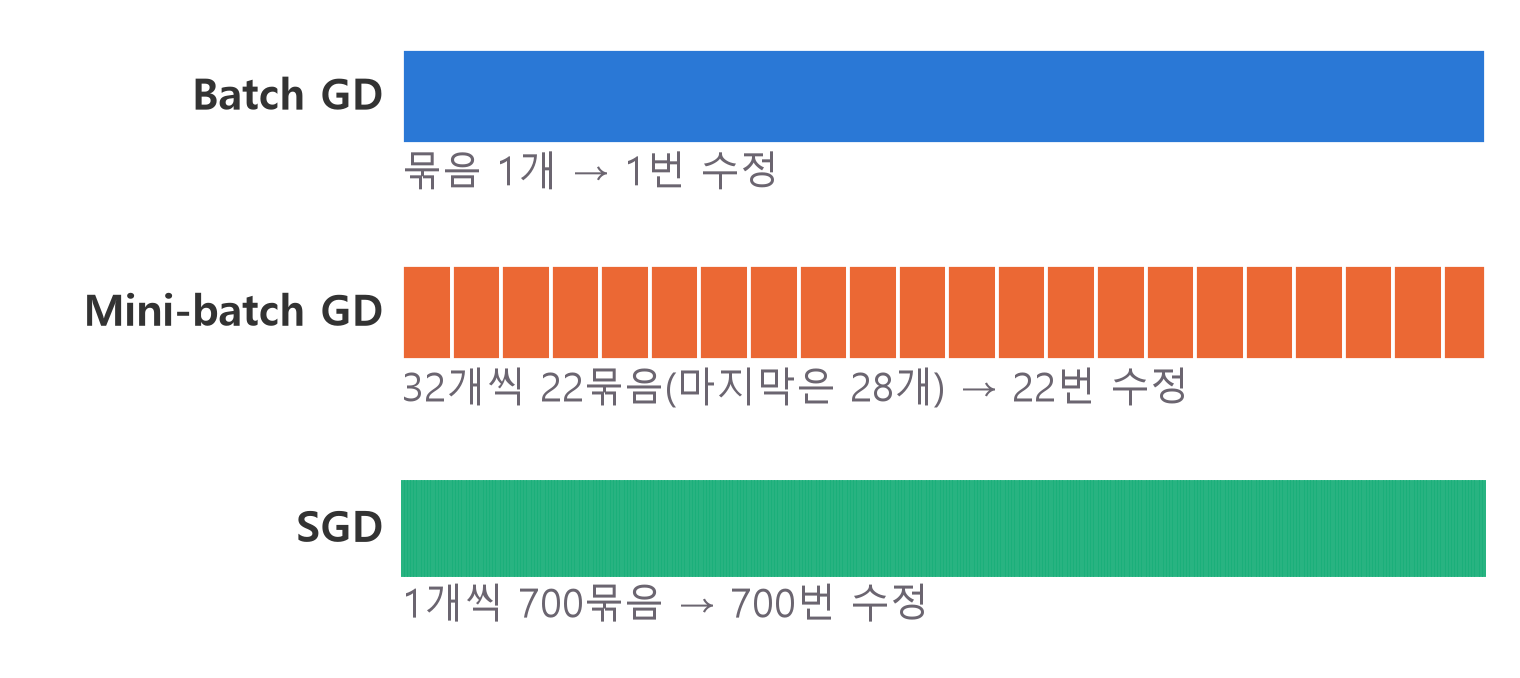
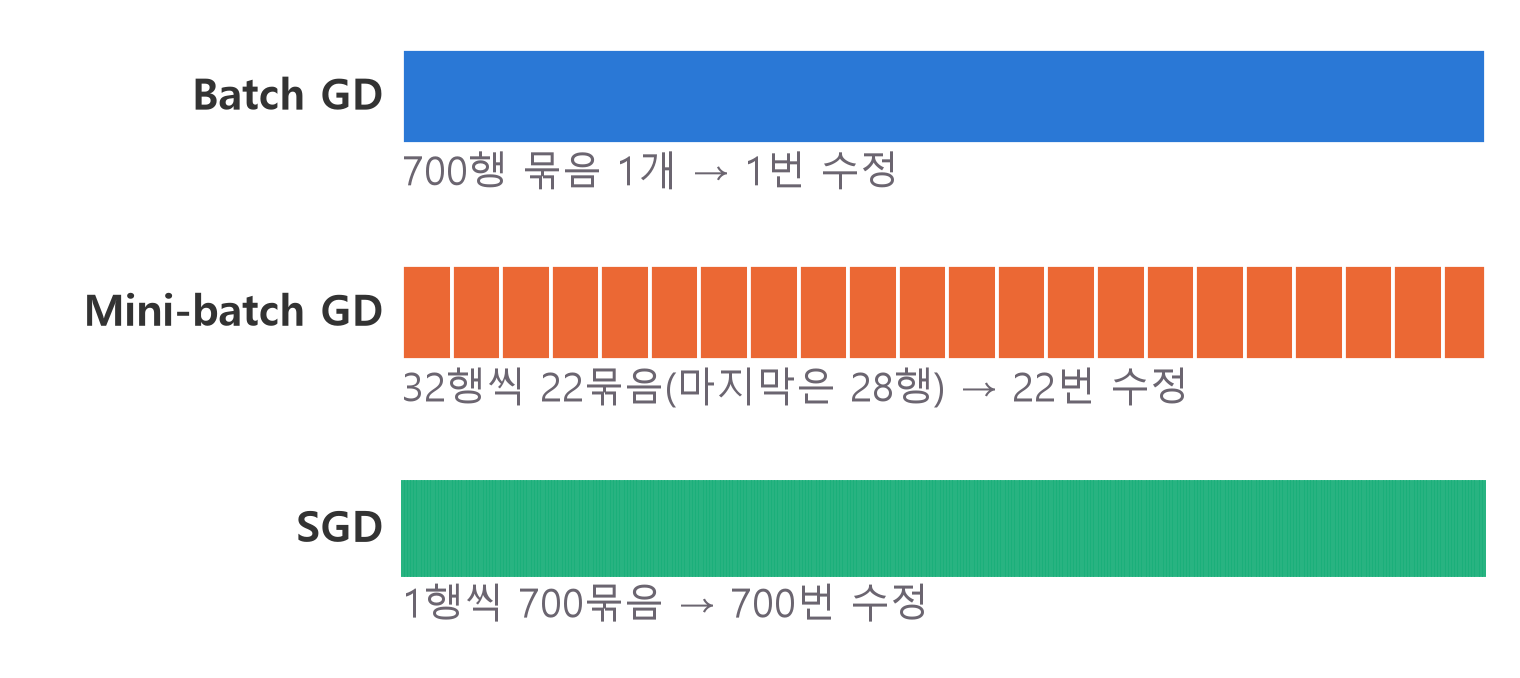
경사하강법 세 방식 글: 제목 변경, 처음 읽는 독자 기준으로 순서와 설명 고침

diff --git a/_posts/2026-11-04-batch-sgd-mini-batch.md b/_posts/2026-11-04-batch-sgd-mini-batch.md
@@ -1,10 +1,10 @@
 ---
-title: "Batch·SGD·Mini-batch 차이 정리: 직접 돌려 비교"
+title: "경사하강법: 세 가지 방식 비교 (Batch, SGD, Mini-batch)"
 section: physical-ai
 sub: nvidia
 ref: batch-sgd-mini-batch
 date: 2026-11-04 12:00:00 +0900
-description: 같은 데이터와 모델로 Batch GD, SGD, Mini-batch GD를 PyTorch DataLoader로 직접 돌려 수정 횟수, 시간, loss, 시험 점수를 비교했어요. shape 읽는 법과 자주 하는 실수까지 정리했어요.
+description: 경사하강법이 무엇인지부터 Batch GD, SGD, Mini-batch GD의 차이까지 처음 보는 사람도 따라오게 정리하고, 같은 데이터로 PyTorch에서 직접 돌려 수정 횟수, 시간, loss, 시험 점수를 비교했어요.
 spacious: true
 ---
 
@@ -24,22 +24,67 @@ spacious: true
 <script defer src="https://cdn.jsdelivr.net/npm/katex@0.16.11/dist/katex.min.js"></script>
 <script defer src="https://cdn.jsdelivr.net/npm/katex@0.16.11/dist/contrib/auto-render.min.js" onload="renderMathInElement(document.querySelector('.content')||document.body,{delimiters:[{left:'\\[',right:'\\]',display:true},{left:'\\(',right:'\\)',display:false}]})"></script>
 
-<div class="wc"><p><b>데이터를 왜 묶음으로 나눌까요?</b><br>
-<a href="https://docs.pytorch.org/docs/2.15/data.html">DataLoader</a>는 데이터를 묶음(batch)으로 나눠 모델에 넘겨 주는 PyTorch 도구예요.<br>
-<a href="https://docs.pytorch.org/tutorials/beginner/basics/optimization_tutorial.html">PyTorch 공식 학습 튜토리얼</a>도 묶음을 하나씩 꺼낼 때마다 가중치를 고쳐요.<br>
-묶음 크기가 수정 횟수와 시간을 어떻게 바꾸는지 알면 학습 코드의 숫자를 근거를 갖고 읽을 수 있어요. (2026년 11월 4일 기준)</p></div>
+<div class="wc"><p><b>경사하강법은 왜 알아야 할까요?</b><br>
+경사하강법(Gradient Descent)은 모델이 틀린 정도가 줄어드는 쪽으로 모델 안의 숫자를 조금씩 고치는 방법이에요.<br>
+<a href="https://docs.pytorch.org/tutorials/beginner/basics/optimization_tutorial.html">PyTorch 공식 학습 튜토리얼</a>도 데이터를 묶음으로 나눠, 묶음마다 이렇게 숫자를 고쳐요.<br>
+묶음 크기에 따라 달라지는 세 방식을 알면 학습 코드의 <code>batch_size</code>를 왜 그렇게 정했는지 읽을 수 있어요. (2026년 11월 4일 기준)</p></div>
 
-같은 데이터와 모델로 경사하강법(Gradient Descent) 세 방식을 돌려 비교하고, 헷갈리는 포인트 네 가지와 자주 하는 실수 네 가지를 정리했어요.
+경사하강법 세 방식을 처음부터 설명하고, 같은 데이터로 직접 돌려 비교했어요. 헷갈리는 포인트 네 가지와 자주 하는 실수 네 가지도 정리했어요.
 
-**데이터 만들기 → 묶음 나누기 → 세 방식 학습 → 수정 횟수 맞춰 비교 → 헷갈리는 곳**
+**세 방식 이해하기 → 문제 만들기 → 묶음 나누기 → 학습하고 비교하기 → 헷갈리는 곳**
+
+<div class="keyline">먼저 경사하강법이 무엇인지부터 볼게요.</div>
+
+## <span class="no">1</span> 경사하강법과 세 가지 방식
+
+경사하강법은 loss가 줄어드는 쪽으로 가중치를 조금씩 고치는 일을 반복하는 방법이에요. 먼저 용어 네 개만 잡을게요.
+
+| 용어 | 뜻 |
+|---|---|
+| 가중치 | 모델 안의 숫자. 학습은 이 숫자를 고치는 일이에요 |
+| loss | 모델의 답이 정답에서 얼마나 틀렸는지 나타낸 숫자. 작을수록 좋아요 |
+| 기울기 | 가중치를 조금 키울 때 loss가 얼마나 변하는지 나타낸 숫자 |
+| learning rate | 한 번에 얼마나 고칠지 정하는 숫자 |
+
+가중치 하나로 보면 고치는 식은 이래요.
+
+$$\theta_{new} = \theta_{old} - \eta \nabla L(\theta_{old})$$
+
+$$\theta$$는 가중치, $$\eta$$는 learning rate, $$\nabla L$$은 기울기예요.
+
+기울기가 양수면 가중치를 키울수록 loss가 커진다는 뜻이라, 기울기에 learning rate를 곱한 만큼 빼서 가중치를 줄여요. $$\theta_{old} = 1$$, $$\eta = 0.1$$, 기울기가 3이면 $$\theta_{new} = 1 - 0.1 \times 3 = 0.7$$이에요.
+
+loss는 행마다 정답과 모델의 답으로 계산하니, 기울기도 행마다 달라요. **세 방식의 차이는 기울기를 몇 행의 데이터로 계산하느냐예요.** 여러 행을 쓰면 행마다 기울기를 구해 평균을 내요.
+
+$$\theta_{new} = \theta_{old} - \eta \cdot \frac{1}{B} \sum_{i=1}^{B} \nabla L_i(\theta_{old})$$
+
+$$B$$는 한 번에 보는 행 수(묶음 크기, batch size)이고, $$\nabla L_i$$는 $$i$$번째 행의 기울기예요. 앞의 기울기 3은 기울기가 2와 4인 두 행의 평균일 수 있어요. 이때 $$B = 2$$예요.
+
+| 방식 | 기울기를 계산할 데이터 |
+|---|---|
+| Batch GD | 전체 데이터 |
+| Mini-batch GD | 작은 묶음(예: 32행) |
+| SGD | 무작위로 고른 1행 |
+
+SGD는 Stochastic Gradient Descent(확률적 경사하강법)의 줄임말이에요. Mini-batch GD까지 SGD라고 부르는 자료도 있는데, 이 글에서는 묶음 크기가 1인 경우만 SGD라고 할게요.
+
+전체 데이터를 한 번 다 보는 것이 **Epoch**이고, 가중치를 한 번 고치는 것이 **Iteration**이에요. 데이터 700행으로 1 Epoch를 돌면 세 방식은 이렇게 달라요.
+
+<figure><img src="/assets/img/mini-batch-compare/batch-split.png" alt="학습 데이터 700행을 Batch GD는 묶음 1개로 1번, Mini-batch GD는 32행씩 22묶음(마지막 묶음은 28행)으로 22번, SGD는 1행씩 700묶음으로 700번 수정해요." width="1520" height="678"></figure>
+
+1 Epoch의 Iteration 수는 이렇게 구해요.
+
+$$\text{Iteration 수} = \left\lceil \frac{N}{B} \right\rceil$$
+
+$$N$$은 데이터 수이고, $$\lceil \ \rceil$$는 올림이에요. $$N = 700$$, $$B = 32$$이면 21.875를 올려서 22예요. 이 글에서 "수정 1번"은 Iteration 1번과 같은 말이에요.
+
+그럼 어느 방식이 좋을까요? 직접 돌려 볼게요. 경로 그림은 [경사하강법 정리](/2026/10/26/gradient-descent-init/)에도 있어요.
+
+## <span class="no">2</span> 풀 문제 만들기
+
+세 방식을 공정하게 비교하려면 같은 문제가 필요해요. 숫자 4칸을 보고 정답 0 또는 1을 맞히는 문제를 1000행 만들어요. 표로 생각하면 행 하나가 데이터 하나예요.
 
 코드는 위에서부터 이어져요. `pip install torch`로 설치하거나 Google Colab에서 돌릴 수 있어요. ❌ 표시가 붙은 블록은 일부러 틀린 코드예요. 결과값은 torch 2.11 CPU에서 실행한 값이고, 시간은 컴퓨터와 실행마다 달라요.
-
-<div class="keyline">먼저 풀 문제부터 만들어 볼게요.</div>
-
-## <span class="no">1</span> 풀 문제 만들기
-
-숫자 4칸을 보고 정답 0 또는 1을 맞히는 문제를 1000행 만들어요.
 
 ```python
 import torch  # 텐서 계산 도구
@@ -52,8 +97,10 @@ from torch.utils.data import (
 torch.manual_seed(42)  # 난수 고정
 X = torch.randn(1000, 4)  # 1000행 4칸
 noise = 0.3 * torch.randn(1000)
+# 0번 칸 × 1번 칸 + 2번 칸
 score = X[:, 0] * X[:, 1] + X[:, 2]
 score = score - 0.5 * X[:, 3] + noise
+# 1000행 1칸 모양으로
 y = (score > 0).float().reshape(-1, 1)
 
 X_train, y_train = X[:700], y[:700]
@@ -62,41 +109,17 @@ print(X_train.shape, y_train.shape)
 print(X_test.shape, y_test.shape)
 print(round(y_train.mean().item(), 4))
 ```
-→ `torch.Size([700, 4]) torch.Size([700, 1])`<br>
-→ `torch.Size([300, 4]) torch.Size([300, 1])`<br>
+→ `torch.Size([700, 4]) torch.Size([700, 1])` : 700행에 입력 4칸, 700행에 정답 1칸<br>
+→ `torch.Size([300, 4]) torch.Size([300, 1])` : 300행에 입력 4칸, 300행에 정답 1칸<br>
 → `0.5014` : 정답의 절반이 1이라, 찍으면 약 50점이에요.
 
-700행으로 학습하고, 학습에 쓰지 않은 300행으로 시험을 봐요. 첫 칸과 둘째 칸을 곱한 항이 있어서 직선 하나로는 잘 안 풀리는 문제예요.
+`X`는 입력이고 `y`는 정답이에요. `torch.randn`은 무작위 숫자를 만들고, `score`가 0보다 크면 정답이 1이에요.
 
-## <span class="no">2</span> Batch GD·SGD·Mini-batch 차이
-
-세 방식의 차이는 가중치를 한 번 고칠 때 몇 행을 보느냐예요. 식은 모두 같아요.
-
-$$\theta_{new} = \theta_{old} - \eta \cdot \frac{1}{B} \sum_{i=1}^{B} \nabla L_i(\theta_{old})$$
-
-$$\theta$$는 가중치, $$\eta$$는 learning rate, $$B$$는 묶음 크기, $$\nabla L_i$$는 $$i$$번째 행의 기울기예요.
-
-숫자를 넣어 볼게요. $$\theta_{old} = 1$$, $$\eta = 0.1$$이고 두 행의 기울기가 2와 4라면, $$B = 2$$일 때 기울기 평균은 3이에요. 그래서 $$\theta_{new} = 1 - 0.1 \times 3 = 0.7$$이 돼요.
-
-전체 데이터를 한 번 다 보는 것이 **Epoch**이고, 가중치를 한 번 고치는 것이 **Iteration**이에요. 1 Epoch의 Iteration 수는 이렇게 구해요.
-
-$$\text{Iteration 수} = \left\lceil \frac{N}{B} \right\rceil$$
-
-$$N$$은 데이터 수이고, $$\lceil \ \rceil$$는 올림이에요. $$N = 700$$, $$B = 32$$이면 21.875를 올려서 22예요.
-
-<figure><img src="/assets/img/mini-batch-compare/batch-split.png" alt="학습 데이터 700행을 Batch GD는 묶음 1개로 1번, Mini-batch GD는 32개씩 22묶음(마지막 묶음은 28개)으로 22번, SGD는 1개씩 700묶음으로 700번 수정해요." width="1520" height="678"></figure>
-
-| 방식 | 묶음 크기 | 1 Epoch 수정 횟수 |
-|---|---|---|
-| Batch GD | 700 | 1번 |
-| Mini-batch GD | 32 | 22번 |
-| SGD | 1 | 700번 |
-
-식과 경로 그림은 [경사하강법 정리](/2026/10/26/gradient-descent-init/)에 자세히 있어요. 여기서는 코드로 직접 비교할게요.
+700행으로 학습하고, 학습에 쓰지 않은 300행으로 시험을 봐요.
 
 ## <span class="no">3</span> DataLoader로 묶음 꺼내기
 
-`TensorDataset`이 X와 y를 같은 번호끼리 짝짓고, `DataLoader`가 그 짝을 묶음으로 꺼내 줘요.
+이제 700행을 묶음으로 나눠요. `TensorDataset`이 X와 y를 같은 번호끼리 짝짓고, `DataLoader`가 그 짝을 묶음으로 꺼내 줘요.
 
 ```python
 dataset = TensorDataset(X_train, y_train)
@@ -119,11 +142,11 @@ print(len(loader))
 
 <figure><img src="/assets/img/mini-batch-compare/batch-shape.png" alt="X_batch는 32행에 행마다 4칸이고, y_batch는 32행에 행마다 정답 1칸이에요. 0번 행은 -0.75, -0.38, 0.14, -0.08과 정답 1이에요." width="1520" height="651"></figure>
 
-행 하나가 데이터 하나예요. 모델은 한 행의 4칸을 보고 정답 1칸을 맞혀요. `batch_size`를 바꾸면 앞 숫자만 바뀌고, 뒤의 4와 1은 그대로예요.
+모델은 한 행의 4칸을 보고 정답 1칸을 맞혀요. `batch_size`를 바꾸면 앞 숫자만 바뀌고, 뒤의 4와 1은 그대로예요.
 
 ## <span class="no">4</span> 세 방식 학습하고 비교하기
 
-묶음 크기만 바꿔 같은 코드로 돌려요. 모델부터 만들어요.
+묶음 크기만 바꿔 같은 코드로 돌려요. 모델은 4칸을 받아 계산을 두 번 거쳐 0과 1 사이 숫자 하나를 내요. `Linear`가 하는 계산은 6절에서 보고, 클래스 구조는 [nn.Module 입문](/2026/11/04/nn-module-shape-dim/)에 자세히 있어요.
 
 ```python
 class SimpleNet(nn.Module):
@@ -131,7 +154,7 @@ class SimpleNet(nn.Module):
         super().__init__()
         self.net = nn.Sequential(
             nn.Linear(4, 32),  # 4칸 → 32칸
-            nn.ReLU(),
+            nn.ReLU(),  # 음수는 0으로
             nn.Linear(32, 1),  # 32칸 → 1칸
             nn.Sigmoid(),  # 0과 1 사이로
         )
@@ -140,7 +163,7 @@ class SimpleNet(nn.Module):
         return self.net(x)
 ```
 
-학습 함수는 `for` 안에 `for`가 있는 모양이에요. 바깥은 Epoch, 안쪽은 묶음을 반복해요.
+학습 함수는 `for` 안에 `for`가 있는 모양이에요. 바깥은 Epoch, 안쪽은 묶음을 반복해요. 안쪽에서 1절의 식을 묶음마다 실행해요.
 
 ```python
 def train(size, epochs=100, lr=0.1, seed=0):
@@ -175,13 +198,26 @@ def train(size, epochs=100, lr=0.1, seed=0):
 
     model.eval()
     with torch.no_grad():
+        # 0.5 이상이면 1로 답하기
         p = (model(X_test) >= 0.5).float()
     correct = (p == y_test).float()
-    acc = correct.mean().item()
+    acc = correct.mean().item()  # 맞힌 비율
     return losses, updates, acc
 ```
 
-[학습 반복문 다섯 단계](/2026/11/04/xor-training-loop/)를 묶음마다 하는 거예요. 묶음 22개면 100 Epoch에 2,200번 고쳐요.
+새로 나온 이름은 이런 뜻이에요.
+
+| 코드 | 뜻 |
+|---|---|
+| `torch.optim.SGD` | 기울기로 가중치를 고치는 도구(optimizer) |
+| `nn.BCELoss` | 정답이 0 또는 1일 때 쓰는 loss |
+| `loss.backward()` | 기울기 계산 |
+| `optimizer.step()` | 1절의 식으로 가중치 수정 |
+| `optimizer.zero_grad()` | 앞 묶음의 기울기 비우기 |
+| `torch.no_grad()` | 시험에서 기울기 계산 끄기 |
+| `model.train()`, `model.eval()` | 학습할 때와 시험 볼 때 모드 바꾸기 |
+
+반복문의 흐름은 [학습 반복문 다섯 단계](/2026/11/04/xor-training-loop/)와 같아요. 묶음 22개면 100 Epoch에 2,200번 고쳐요.
 
 Batch GD를 위해 묶음 크기로 700을 넘기면 묶음이 1개만 나와요. 네 가지 크기를 돌려 볼게요. SGD 줄은 10초쯤 걸려요.
 
@@ -203,11 +239,13 @@ for name, size in sizes.items():
 → `Mini-batch 32 2200 0.1575 0.8933`<br>
 → `SGD 70000 0.1779 0.88`
 
-<figure><img src="/assets/img/mini-batch-compare/loss-by-epoch.png" alt="100 Epoch 동안 Batch GD는 0.40까지 천천히 내려가고, 256개는 0.28, 32개는 0.16, SGD는 약 0.18 근처에서 흔들려요." width="1520" height="895"></figure>
+출력은 차례로 방식 이름, 수정 횟수, 마지막 Epoch의 평균 loss, 시험 300행에서 맞힌 비율이에요. 그림은 Epoch마다의 평균 loss예요.
 
-같은 Epoch 수라면 묶음이 작을수록 수정을 더 많이 해서 초반에 loss가 빨리 내려가요. 다만 SGD는 `lr=0.1`에서 삐죽삐죽 흔들리며 32개보다 위에 머물러요. 행 하나로 어림한 기울기는 다른 행에 맞지 않을 때가 많기 때문이에요.
+<figure><img src="/assets/img/mini-batch-compare/loss-by-epoch.png" alt="100 Epoch 동안 Batch GD는 0.40까지 천천히 내려가고, 256행 묶음은 0.28, 32행 묶음은 0.16, SGD는 약 0.18 근처에서 흔들려요." width="1520" height="895"></figure>
 
-그런데 시드 하나의 결과는 우연일 수 있어요. 시드 5개로 평균을 내 볼게요. 약 1분 걸려요.
+같은 Epoch 수라면 묶음이 작을수록 수정을 더 많이 해서 초반에 loss가 빨리 내려가요. 다만 SGD는 `lr=0.1`에서 삐죽삐죽 흔들리며 32행 묶음보다 위에 머물러요. 행 하나로 어림한 기울기는 다른 행에 맞지 않을 때가 많기 때문이에요.
+
+그런데 한 번의 결과는 우연일 수 있어요. 난수의 시작값인 시드(seed)가 달라지면 처음 가중치와 섞는 순서가 달라지거든요. 시드 5개로 평균을 내 볼게요. 약 1분 걸려요.
 
 ```python
 import time
@@ -230,20 +268,20 @@ for name, size in sizes.items():
     print(name, repeat(size))
 ```
 
-| 방식 | 100 Epoch 수정 | 최종 loss | 시험 점수 | 1번 시간 |
+| 방식 | 100 Epoch 수정 | 최종 loss | 시험 점수 | 1번 실행 시간 |
 |---|---|---|---|---|
 | Batch GD | 100번 | 0.3810 | 0.7913 | 0.3초 |
 | Mini-batch 256 | 300번 | 0.2707 | 0.8500 | 0.3초 |
 | Mini-batch 32 | 2,200번 | 0.1581 | 0.9013 | 0.7초 |
 | SGD | 70,000번 | 0.1780 | 0.8727 | 10초 |
 
-조건은 학습 700행, 시험 300행, 은닉층 1개(32칸), `lr=0.1`, 시드 0부터 4까지예요. 이 조건에서는 Mini-batch 32가 점수도 가장 높고, SGD보다 훨씬 빨랐어요.
+조건은 학습 700행, 시험 300행, 가운데 층 1개(32칸), learning rate `lr=0.1`, 시드 0부터 4까지예요. 이 조건에서는 Mini-batch 32가 점수도 가장 높고, SGD보다 훨씬 빨랐어요.
 
 이 표로 "SGD는 점수가 낮다"고 결론 내리면 안 돼요. Batch GD는 수정 횟수가 적고, SGD는 `lr=0.1`이면 흔들림이 커요. 조건을 맞춰 다시 볼게요.
 
 ## <span class="no">5</span> 수정 횟수를 맞추면 보이는 것
 
-수정 횟수를 700번으로 맞추면 묶음 32개, 256개, 전체 700개의 loss가 거의 겹쳐요. 매번 학습 데이터 전체로 loss를 재서 비교했어요.
+수정 횟수를 700번으로 맞추면 32행 묶음, 256행 묶음, 700행 전체의 loss가 거의 겹쳐요. 코드는 앞의 학습 반복문에 두 가지만 바꿨어요. 수정할 때마다 학습 데이터 전체의 loss를 기록하고, 700번 고치면 멈춰요.
 
 ```python
 def by_updates(size, max_updates=700):
@@ -284,7 +322,7 @@ for name, size in sizes.items():
 → `Mini-batch 32 0.188`<br>
 → `SGD 0.2483`
 
-<figure><img src="/assets/img/mini-batch-compare/loss-by-update.png" alt="가중치를 700번 고치는 동안 Batch GD, 256개, 32개의 loss는 거의 겹쳐 0.19까지 내려가고, SGD는 흔들리며 0.25에 머물러요." width="1520" height="895"></figure>
+<figure><img src="/assets/img/mini-batch-compare/loss-by-update.png" alt="가중치를 700번 고치는 동안 Batch GD, 256행 묶음, 32행 묶음의 loss는 거의 겹쳐 0.19까지 내려가고, SGD는 흔들리며 0.25에 머물러요." width="1520" height="895"></figure>
 
 이 문제에서는 32행의 평균 기울기가 700행의 평균 기울기와 비슷한 방향을 가리킨 거예요. 그런데 700번 고치는 동안 본 행 수는 크게 달라요.
 
@@ -295,9 +333,9 @@ for name, size in sizes.items():
 | Mini-batch 32 | 약 22,000행 |
 | SGD | 700행 |
 
-행 수로만 보면 SGD가 가장 적어요. 그런데 시간은 행 수대로 줄지 않아요.
+행 수로만 보면 SGD가 가장 적어요. 그런데 시간은 행 수대로 줄지 않아요. 세 방식이 비슷한 점수에 닿게 맞춘 뒤 시간을 재 볼게요.
 
-이번에는 세 방식이 비슷한 점수에 닿도록 조건을 바꿔 볼게요. Batch GD는 Epoch를 2,200으로 늘리고, SGD는 `lr`을 0.003으로 줄여요. 약 2분 걸려요.
+Batch GD는 수정 횟수가 모자랐으니 Epoch를 2,200으로 늘려요. SGD는 흔들림이 컸으니 learning rate를 0.003으로 줄여요. 약 2분 걸려요.
 
 ```python
 print(repeat(700, epochs=2200))
@@ -305,7 +343,7 @@ print(repeat(32))
 print(repeat(1, lr=0.003))
 ```
 
-| 설정 | 수정 횟수 | 최종 loss | 시험 점수 | 1번 시간 |
+| 설정 | 수정 횟수 | 최종 loss | 시험 점수 | 1번 실행 시간 |
 |---|---|---|---|---|
 | Batch GD, 2,200 Epoch | 2,200번 | 0.1533 | 0.8993 | 7.4초 |
 | Mini-batch 32, 100 Epoch | 2,200번 | 0.1581 | 0.9013 | 0.8초 |
@@ -313,13 +351,13 @@ print(repeat(1, lr=0.003))
 
 Mini-batch 32는 앞 표와 같은 실험을 다시 잰 값이라 시간만 조금 달라요.
 
-세 방식 모두 약 0.90에 닿았고, 차이는 시간이에요. Batch GD는 수정할 때마다 700행을 계산해서 Mini-batch 32보다 약 9배 걸렸어요. SGD와 Mini-batch 32는 둘 다 100 Epoch에 70,000행을 보는데, SGD는 10배 넘게 걸렸어요. 앞 표로 수정 1번의 시간을 나눠 보면 32행을 묶어 계산해도 1행의 약 2배뿐이라, 묶어서 한 번에 계산하는 쪽이 빨라요.
+세 방식 모두 약 0.90에 닿았고, 차이는 시간이에요. Batch GD는 수정할 때마다 700행을 계산해서 Mini-batch 32보다 약 9배 걸렸어요. SGD와 Mini-batch 32는 둘 다 100 Epoch에 70,000행을 보는데, SGD는 10배 넘게 걸렸어요. 4절 표로 수정 1번의 시간을 구하면 SGD는 10초 ÷ 70,000번으로 약 0.14ms, 32행 묶음은 0.7초 ÷ 2,200번으로 약 0.32ms예요. 32행을 한 번에 계산해도 1행의 약 2배라서, 묶어서 계산하는 쪽이 빨라요.
 
 이 실험에서 Mini-batch를 고를 이유가 여기 있어요. 다른 데이터에서는 점수 순서가 달라질 수 있고, `lr`에 따라서도 달라져요.
 
 ## <span class="no">6</span> 헷갈리기 쉬운 네 가지
 
-**마지막 묶음은 32개가 아니에요.** 700을 32로 나누면 28행이 남고, 이 28행이 22번째 묶음이 돼요.
+**마지막 묶음은 32행이 아니에요.** 700을 32로 나누면 28행이 남고, 이 28행이 22번째 묶음이 돼요.
 
 ```python
 counts = [len(X_b) for X_b, _ in loader]
@@ -335,7 +373,7 @@ print(len(small))
 
 앞의 `epoch_loss / len(loader)`는 묶음끼리의 평균이라, 28행 묶음도 32행 묶음과 같은 무게로 들어가요. 비교용으로는 충분해요.
 
-**`Linear(32, 1)`의 32는 `batch_size=32`와 상관없어요.** 이 32는 은닉층의 칸 수이고, 이 글에서 우연히 숫자가 같아요. `batch_size`를 바꿔도 모델 코드는 그대로예요.
+**`Linear(32, 1)`의 32는 `batch_size=32`와 상관없어요.** 이 32는 모델 가운데 층의 칸 수이고, 이 글에서 우연히 숫자가 같아요. `batch_size`를 바꿔도 모델 코드는 그대로예요.
 
 `Linear`가 32칸을 1칸으로 줄이는 방법은 곱해서 모두 더하기예요. 3칸 입력 $$[2, 1, 3]$$에 가중치 $$[0.5, -1, 1]$$을 곱해 더하면 $$1 - 1 + 3 = 3$$으로 숫자 하나가 돼요. 이 계산을 몇 세트 하느냐가 출력 칸 수예요.
 
@@ -400,7 +438,7 @@ print(updates)
 → `1`<br>
 → `100`
 
-**정렬된 데이터를 안 섞기.** 학습 데이터를 정답 순서로 정렬하고 `shuffle=False`로 돌리면, 앞쪽 묶음은 전부 0이고 뒤쪽 묶음은 전부 1이에요. 묶음 32개, 100 Epoch, 시드 5개로 재 보니 시험 점수 평균이 `shuffle=False`는 0.888, `shuffle=True`는 0.9013이었어요. 시드마다 모두 `shuffle=True`가 높았어요. 이 데이터에서 차이는 약 0.013이에요.
+**정렬된 데이터를 안 섞기.** 학습 데이터를 정답 순서로 정렬하고 `shuffle=False`로 돌리면, 앞쪽 묶음은 전부 0이고 뒤쪽 묶음은 전부 1이에요. 32행 묶음, 100 Epoch, 시드 5개로 재 보니 시험 점수 평균이 `shuffle=False`는 0.888, `shuffle=True`는 0.9013이었어요. 시드마다 모두 `shuffle=True`가 높았어요. 이 데이터에서 차이는 약 0.013이에요.
 
 이 글에서 쓴 함수를 순서대로 모으면 이래요.
 
